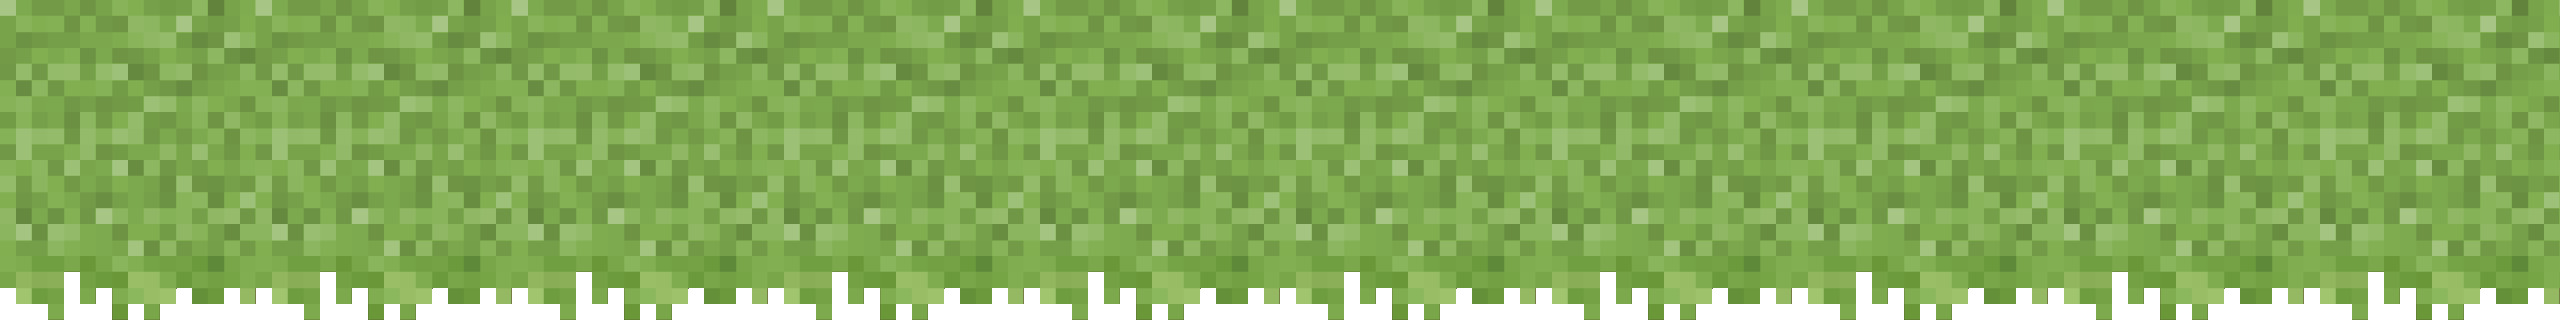
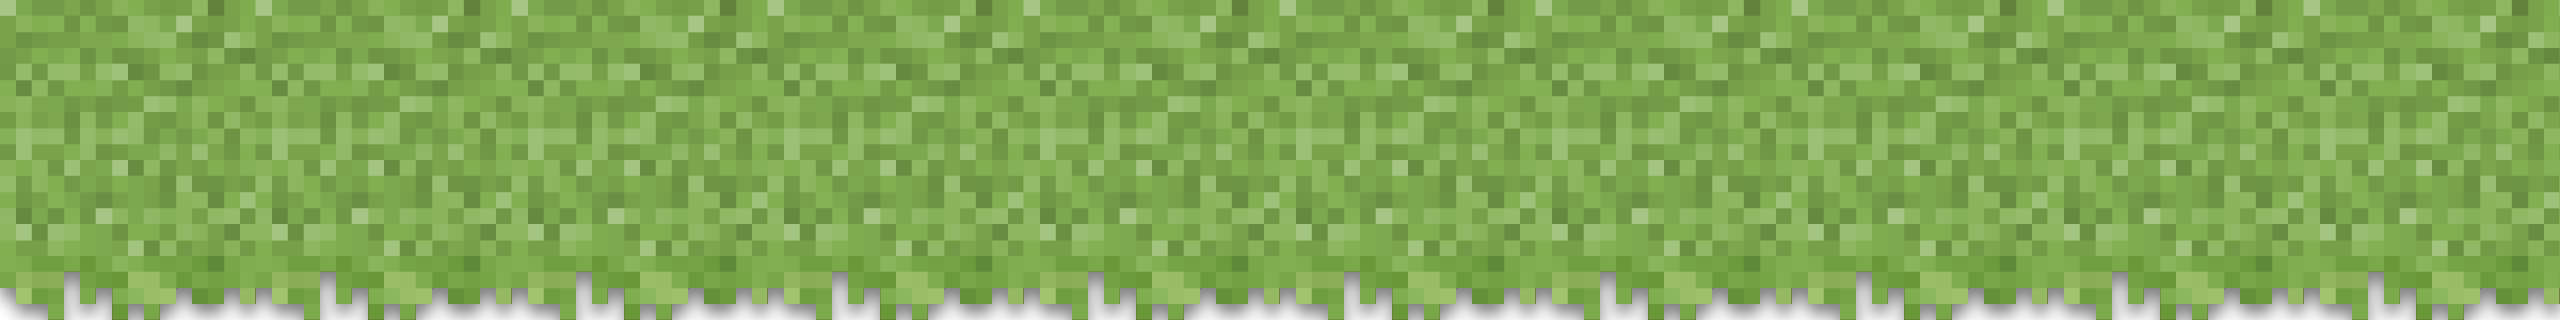
Navbar and google play button shadows added, content container added

Changed region(s): [[0.0, 0.8438, 1.0, 1.0]]

diff --git a/style.css b/style.css
@@ -5,6 +5,7 @@
 
 * {
     box-sizing: border-box;
+    outline: 0 !important;
 }
 
 body {
@@ -14,12 +15,18 @@ body {
 
 .navbar {
     display: flex;
-    flex-direction: row;
-    justify-content: space-between;
-    width: 100%;
     height: 25vw;
     background: url(./img/navbar_bg.png) no-repeat;
     background-size: cover;
+}
+
+.container {
+    display: flex;
+    flex-direction: row;
+    justify-content: space-between;
+    width: 100%;
+    height: inherit;
+    margin: 0 auto;
 }
 
 #logo {
@@ -32,14 +39,24 @@ body {
     background-position: center;
 }
 
-#google_play img {
+#google_play {
     position: absolute;
-    bottom: 0;
+    bottom: 4%;
     left: 0;
     right: 0;
     margin: auto;
-    width: 100%;
-    max-width: 360px;
+    width: 84%;
+    height: inherit;
+    background: url(./img/google_play.png) no-repeat center;
+    background-size: contain;
+    box-shadow: 0 0 40px 5px black;
+    border-radius: 10px;
+    transition: .1s ease-in-out;
+}
+
+#google_play:active {
+    transform: scale(.95);
+    box-shadow: 0 0 0px 0px black;
 }
 
 h1,
@@ -58,16 +75,31 @@ h5 {
         height: 13vw;
     }
 
-    #google_play {
-        margin: auto;
+    #logo {
+        margin: auto 0;
     }
 
-    #google_play img {
+    #google_play {
+        bottom: 0;
+        margin: auto 0;
         position: relative;
-        max-width: 230px;
+        max-width: 180px;
+        width: 100%;
+        height: 100%;
+        box-shadow: none;
     }
 }
 
-@media only screen and (min-width: 1024px) {
-    
+@media only screen and (min-width: 1440px) {
+    #logo {
+        max-width: 480px;
+    }
+
+    #google_play img {
+        max-width: 360px;
+    }
+
+    .container {
+        max-width: 1140px;
+    }
 }

diff --git a/index.html b/index.html
@@ -11,11 +11,11 @@
 
 <body>
     <div class="navbar">
-        <div id="logo" alt="Minecrash"></div>
-        <a id="google_play"
-            href='https://play.google.com/store/apps/details?id=com.ekrem.game.minecrash&pcampaignid=MKT-Other-global-all-co-prtnr-py-PartBadge-Mar2515-1'>
-            <img alt='Get it on Google Play'
-                src='https://play.google.com/intl/it/badges/images/generic/en_badge_web_generic.png' /></a>
+        <div class="container">
+            <div id="logo" alt="Minecrash"></div>
+            <a id="google_play" alt='Get it on Google Play'
+                href='https://play.google.com/store/apps/details?id=com.ekrem.game.minecrash&pcampaignid=MKT-Other-global-all-co-prtnr-py-PartBadge-Mar2515-1'></a>
+        </div>
     </div>
 </body>
 
